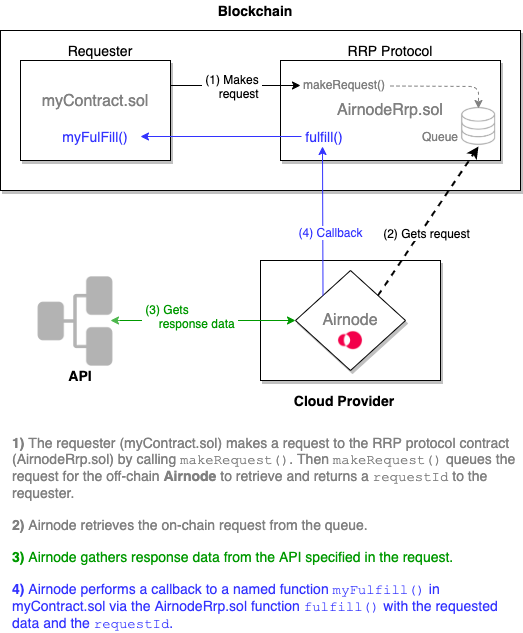
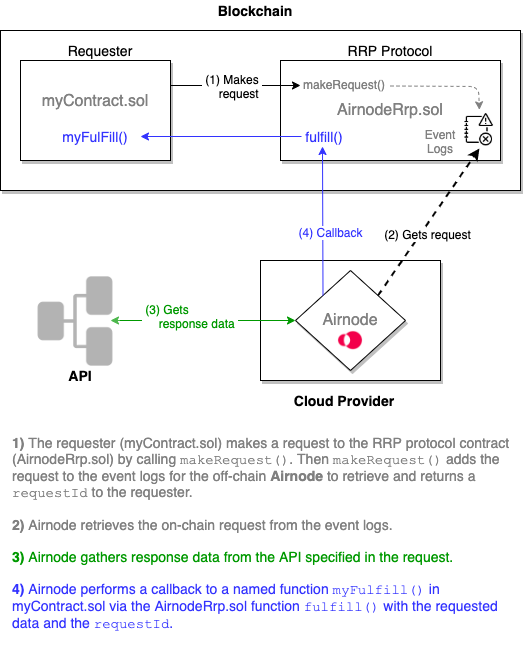
Changes related to sponsorAddress

Changed region(s): [[0.0, 0.0, 1.0, 1.0], [0.0612, 0.5103, 0.1224, 0.5403]]

diff --git a/docs/next/grp-developers/requesters-sponsors.md b/docs/next/grp-developers/requesters-sponsors.md
@@ -11,7 +11,7 @@ As a developer it helps to understand what a **requester** is and what a **spons
 
 ## What is a Requester?
 
-The term **requester** is important to remember. It is mentioned in these docs and in the GitHub code. When requester is mentioned, the reference is to your smart contract that calls an Airnode. See [requester](../reference/concepts/requester.md) in the Reference section. 
+The term [requester](../concepts/requester.md) is important to remember. When requester is mentioned, the reference is to your smart contract that calls an Airnode.
 
 > ![image](../assets/images/requesters-sponsors-1.png)
 
@@ -19,13 +19,11 @@ As an example see the `myContract.sol` contract in the diagram within the [Overv
 
 ## What is a Sponsor?
 
-Equally important is the term **sponsor** also found throughout the docs and code. A sponsor is an entity such as yourself, an organization, etc. See [sponsor](../reference/concepts/sponsor.md) in the Reference section.
+Equally important is the term [sponsor](../concepts/sponsor.md). A sponsor is an entity such as yourself, an organization, etc.
 
-As a sponsor you will use the address of an Ethereum account _(called a sponsorAddress)_ to "derive a sponsor wallet" for an Airnode and then "sponsor a requester" with the same sponsorAddress. 
+As a sponsor you will use the address of an Ethereum account _(called a [`sponsorAddress`](../concepts/sponsor.md#sponsoraddress))_ to "sponsor a requester"  and then with the same `sponsorAddress` "derive a [`sponsorWallet`](../concepts/sponsor.md#sponsorwallet)" for an Airnode. This action creates a relationship between a sponsor's requester and a particular Airnode. You do this because a sponsor is the entity that pays for the fulfillment of a request, the gas costs the Airnode will incur. These costs will be withdrawn from the `sponsorWallet` of the Airnode when the requester calls it.
 
-You do this because a sponsor is the entity that pays for the fulfillment of a request, the gas costs the Airnode will incur. These costs will be withdrawn from the sponsor wallet of the Airnode when the requester calls it.
-
-In the diagram below a sponsor uses a sponsorAddress to "derive a sponsor wallet" for a specific Airnode and then funds it. Then the sponsor uses the same sponsorAddress to "sponsor a requester". Because the requester was sponsored with the same sponsorAddress that was used to derive the sponsor wallet of the Airnode, the requester can now make requests of the Airnode.
+In the diagram below a sponsor uses a `sponsorAddress` to "derive a `sponsorWallet`" for a specific Airnode and then funds it. Then the sponsor uses the same sponsorAddress to "sponsor a requester". Because the requester was sponsored with the same `sponsorAddress` that was used to derive the `sponsorWallet` of the Airnode, the requester can now make requests of the Airnode.
 
 >![image](../assets/images/sponsor-overview.png)
 
@@ -102,18 +100,16 @@ When a sponsor uses the same `sponsorAddress` to "sponsor a requester" and to "d
 
 To sponsor a requester you will need the following. Your requester should already be deployed on-chain.
 
-- `providerURL` a blockchain provider URL (such as Infura) with providerID for a desired network
-- `mnemonic` for gas costs to fund the sponsorship
-- `sponsor` the sponsorAddress (an address of an Ethereum account) owned by a sponsor
-- `requesterAddress` the address of the requester (smart contract)
+- `providerURL` A blockchain provider URL (such as Infura) with providerID for the desired network.
+- `mnemonic`  Used for gas costs to fund the sponsorship and used to derive the `sponsorAddress` from the default address. The `sponsorAddress` will be needed to derive a `sponsorWallet` for an Airnode.
+- `requesterAddress` The address of the requester (smart contract).
 
 :::: tabs
 ::: tab Linux/Mac
 ```bash
 npx @api3/airnode-admin sponsor-requester ^
   --providerUrl https://ropsten.infura.io/v3/<KEY> ^
-  --mnemonic "cricket...oppose" ^ 
-  --sponsor 0xF4...dDyu9 ^              
+  --mnemonic "cricket...oppose" ^            
   --requester 0x2c...gDER7        
 ```
 :::
@@ -121,8 +117,7 @@ npx @api3/airnode-admin sponsor-requester ^
 ```
 npx @api3/airnode-admin sponsor-requester \
   --providerUrl https://ropsten.infura.io/v3/<KEY> \
-  --mnemonic "cricket...oppose" \ 
-  --sponsor 0xF4...dDyu9 \              
+  --mnemonic "cricket...oppose" \           
   --requester 0x2c...gDER7        
 ```
 :::

diff --git a/docs/next/grp-developers/README.md b/docs/next/grp-developers/README.md
@@ -4,11 +4,11 @@ title: Overview
 
 # {{$frontmatter.title}}
 
-A **Developer** is you, if you wish to consume off-chain data from APIs. You do so using Airnodes. An Airnode is a first-party oracle that will push off-chain API data to your on-chain contract. In the diagram below your contract is called a requester. It will make a request to the on-chain RRP protocol contract (AirnodeRrp.sol) that will queue the request. The off-chain Airnode will access the queue, get the API data and perform a callback to the requester.
+A **Developer** is you, if you wish to consume off-chain data from APIs. You do so using Airnodes. An Airnode is a first-party oracle that will push off-chain API data to your on-chain contract. In the diagram below your contract is called a requester. It will make a request to the on-chain RRP protocol contract (AirnodeRrp.sol) that will add the request to the event logs. The off-chain Airnode will access the event logs, get the API data and perform a callback to the requester.
 
 In summary you only need to do two things.
 
-- Call `makeRequest()` on the AirnodeRrp.sol contract which returns a `requestId`.
+- Call `makeRequest()` on the AirnodeRrp.sol contract which returns a [`requestId`](../concepts/request.md#requestid).
 - Add a `myFulfill()` function (call it what you like) to your requester (your contract) where the off-chain Airnode can send the requested data when ready. The data includes the same `requestId` returned when the request was made.
 
   > ![call](../assets/images/developer-overview.png)
